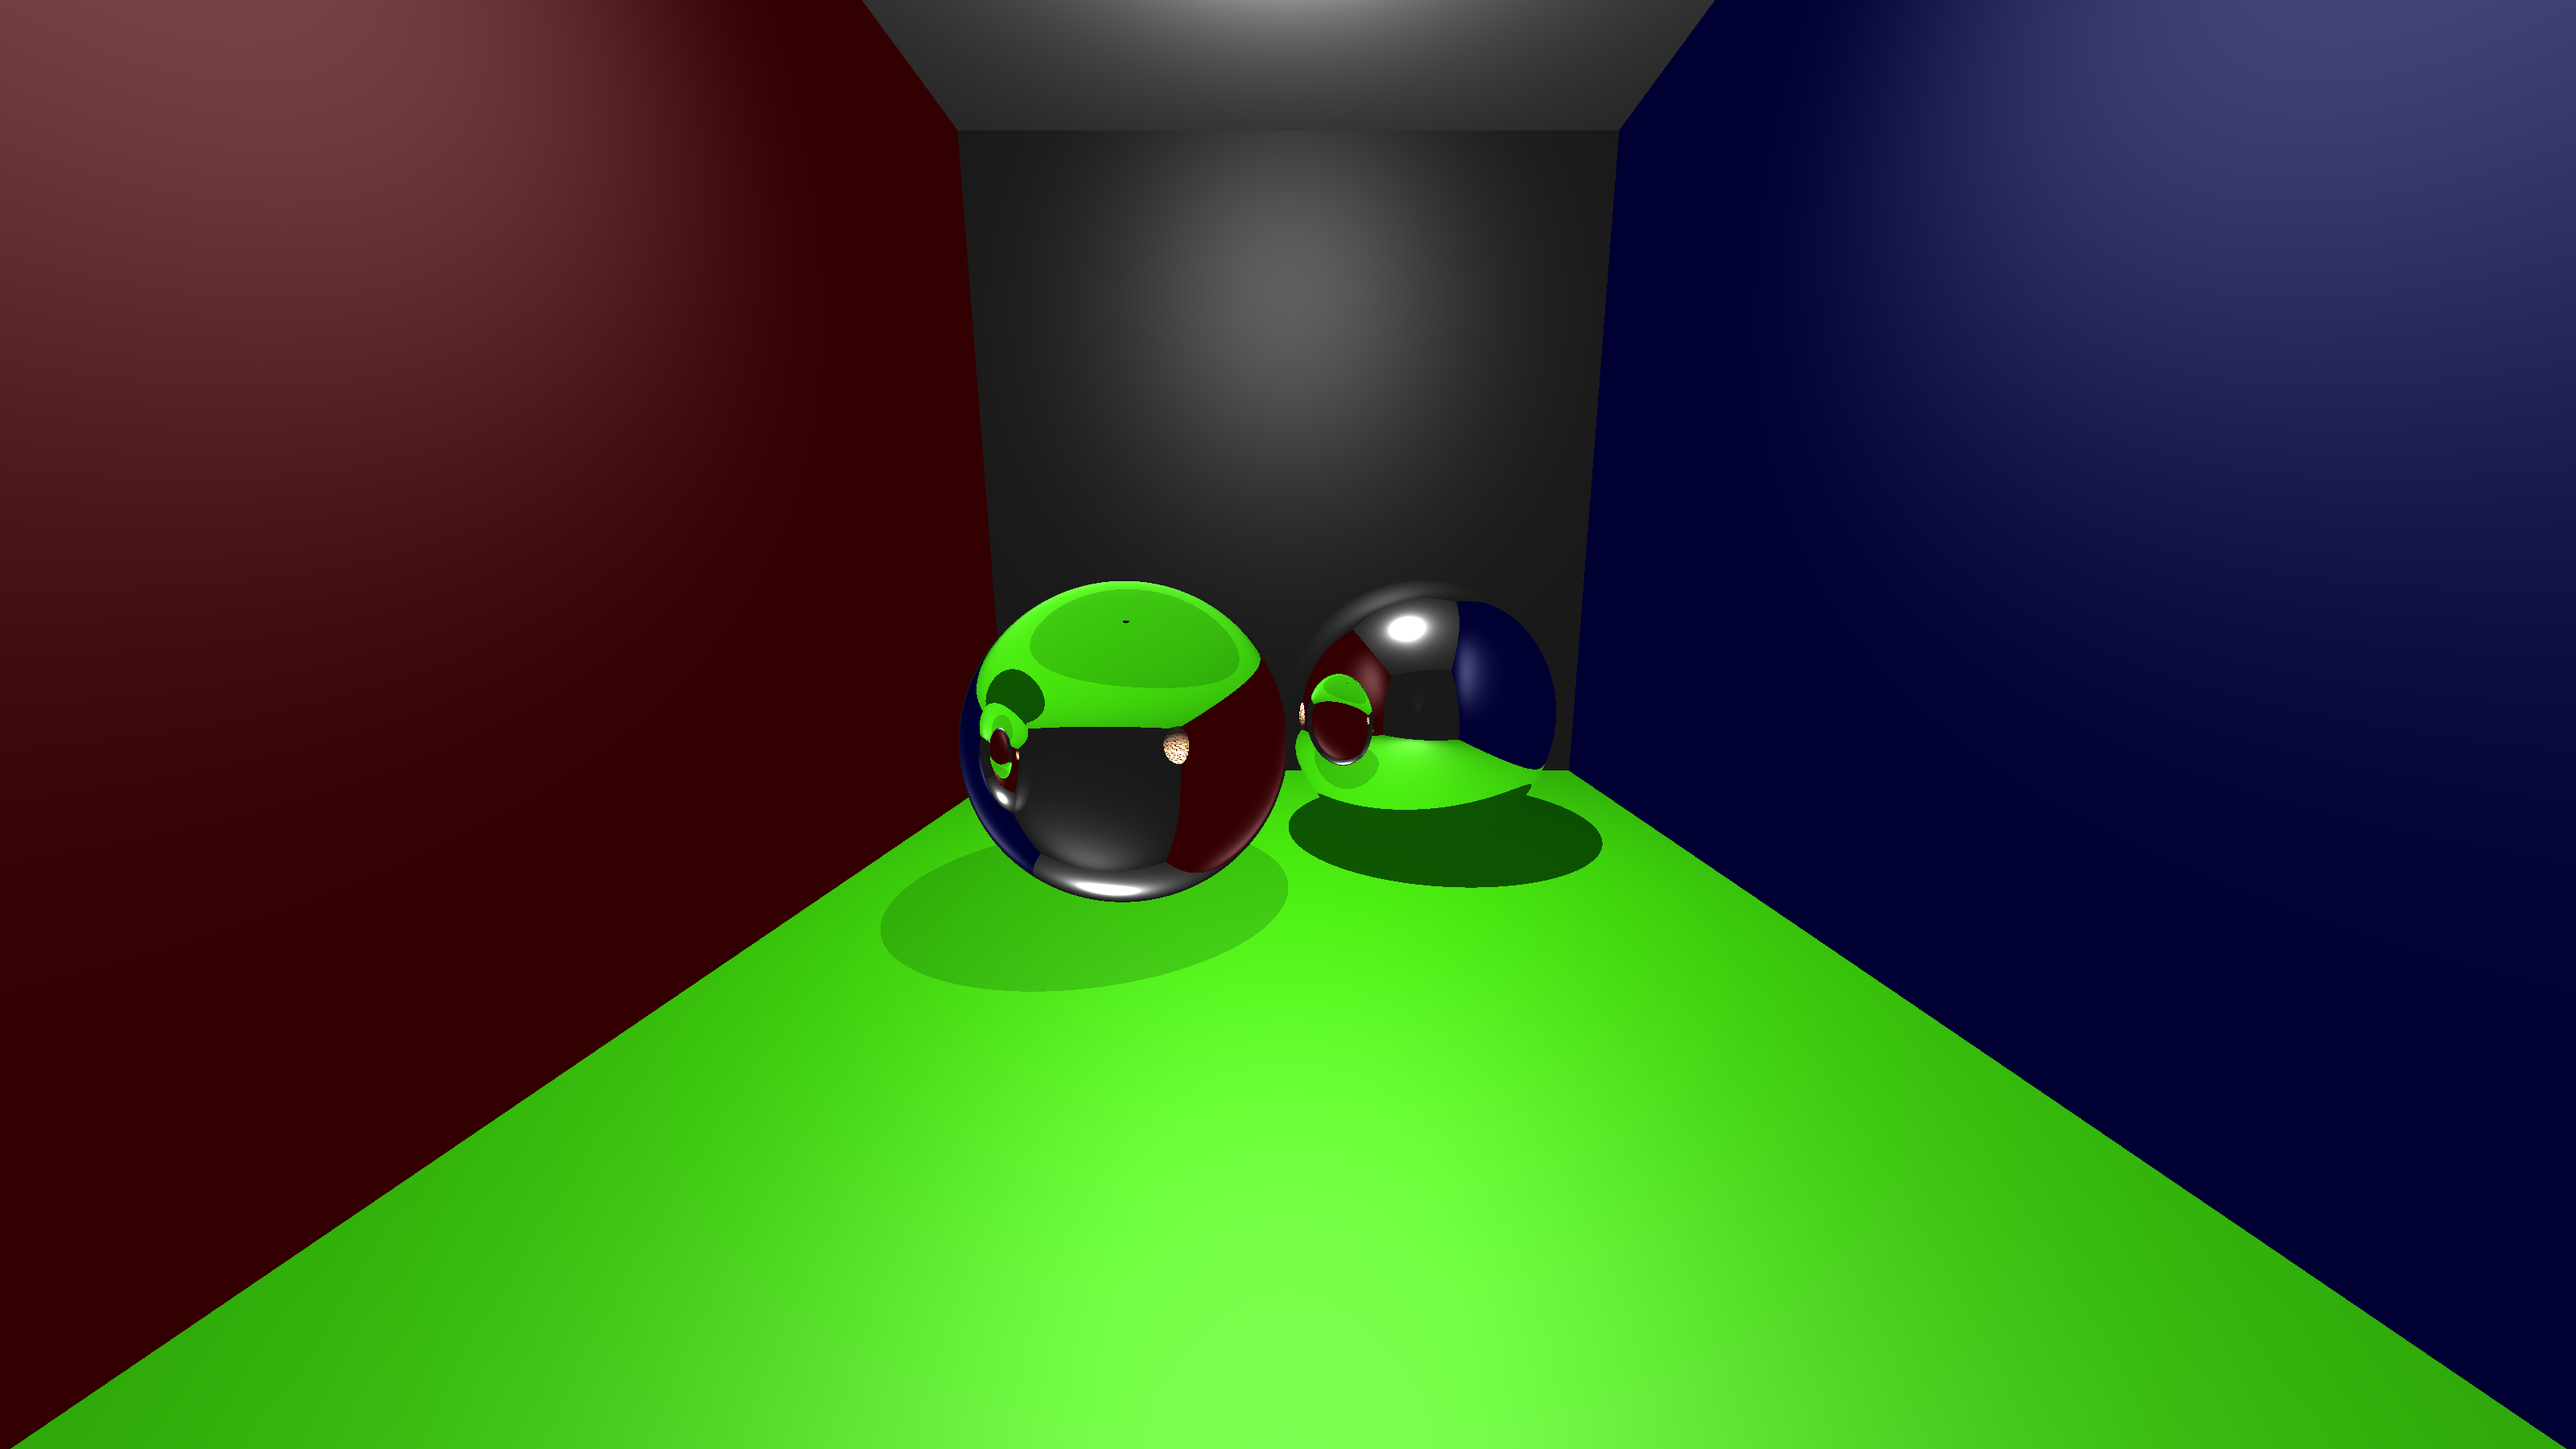
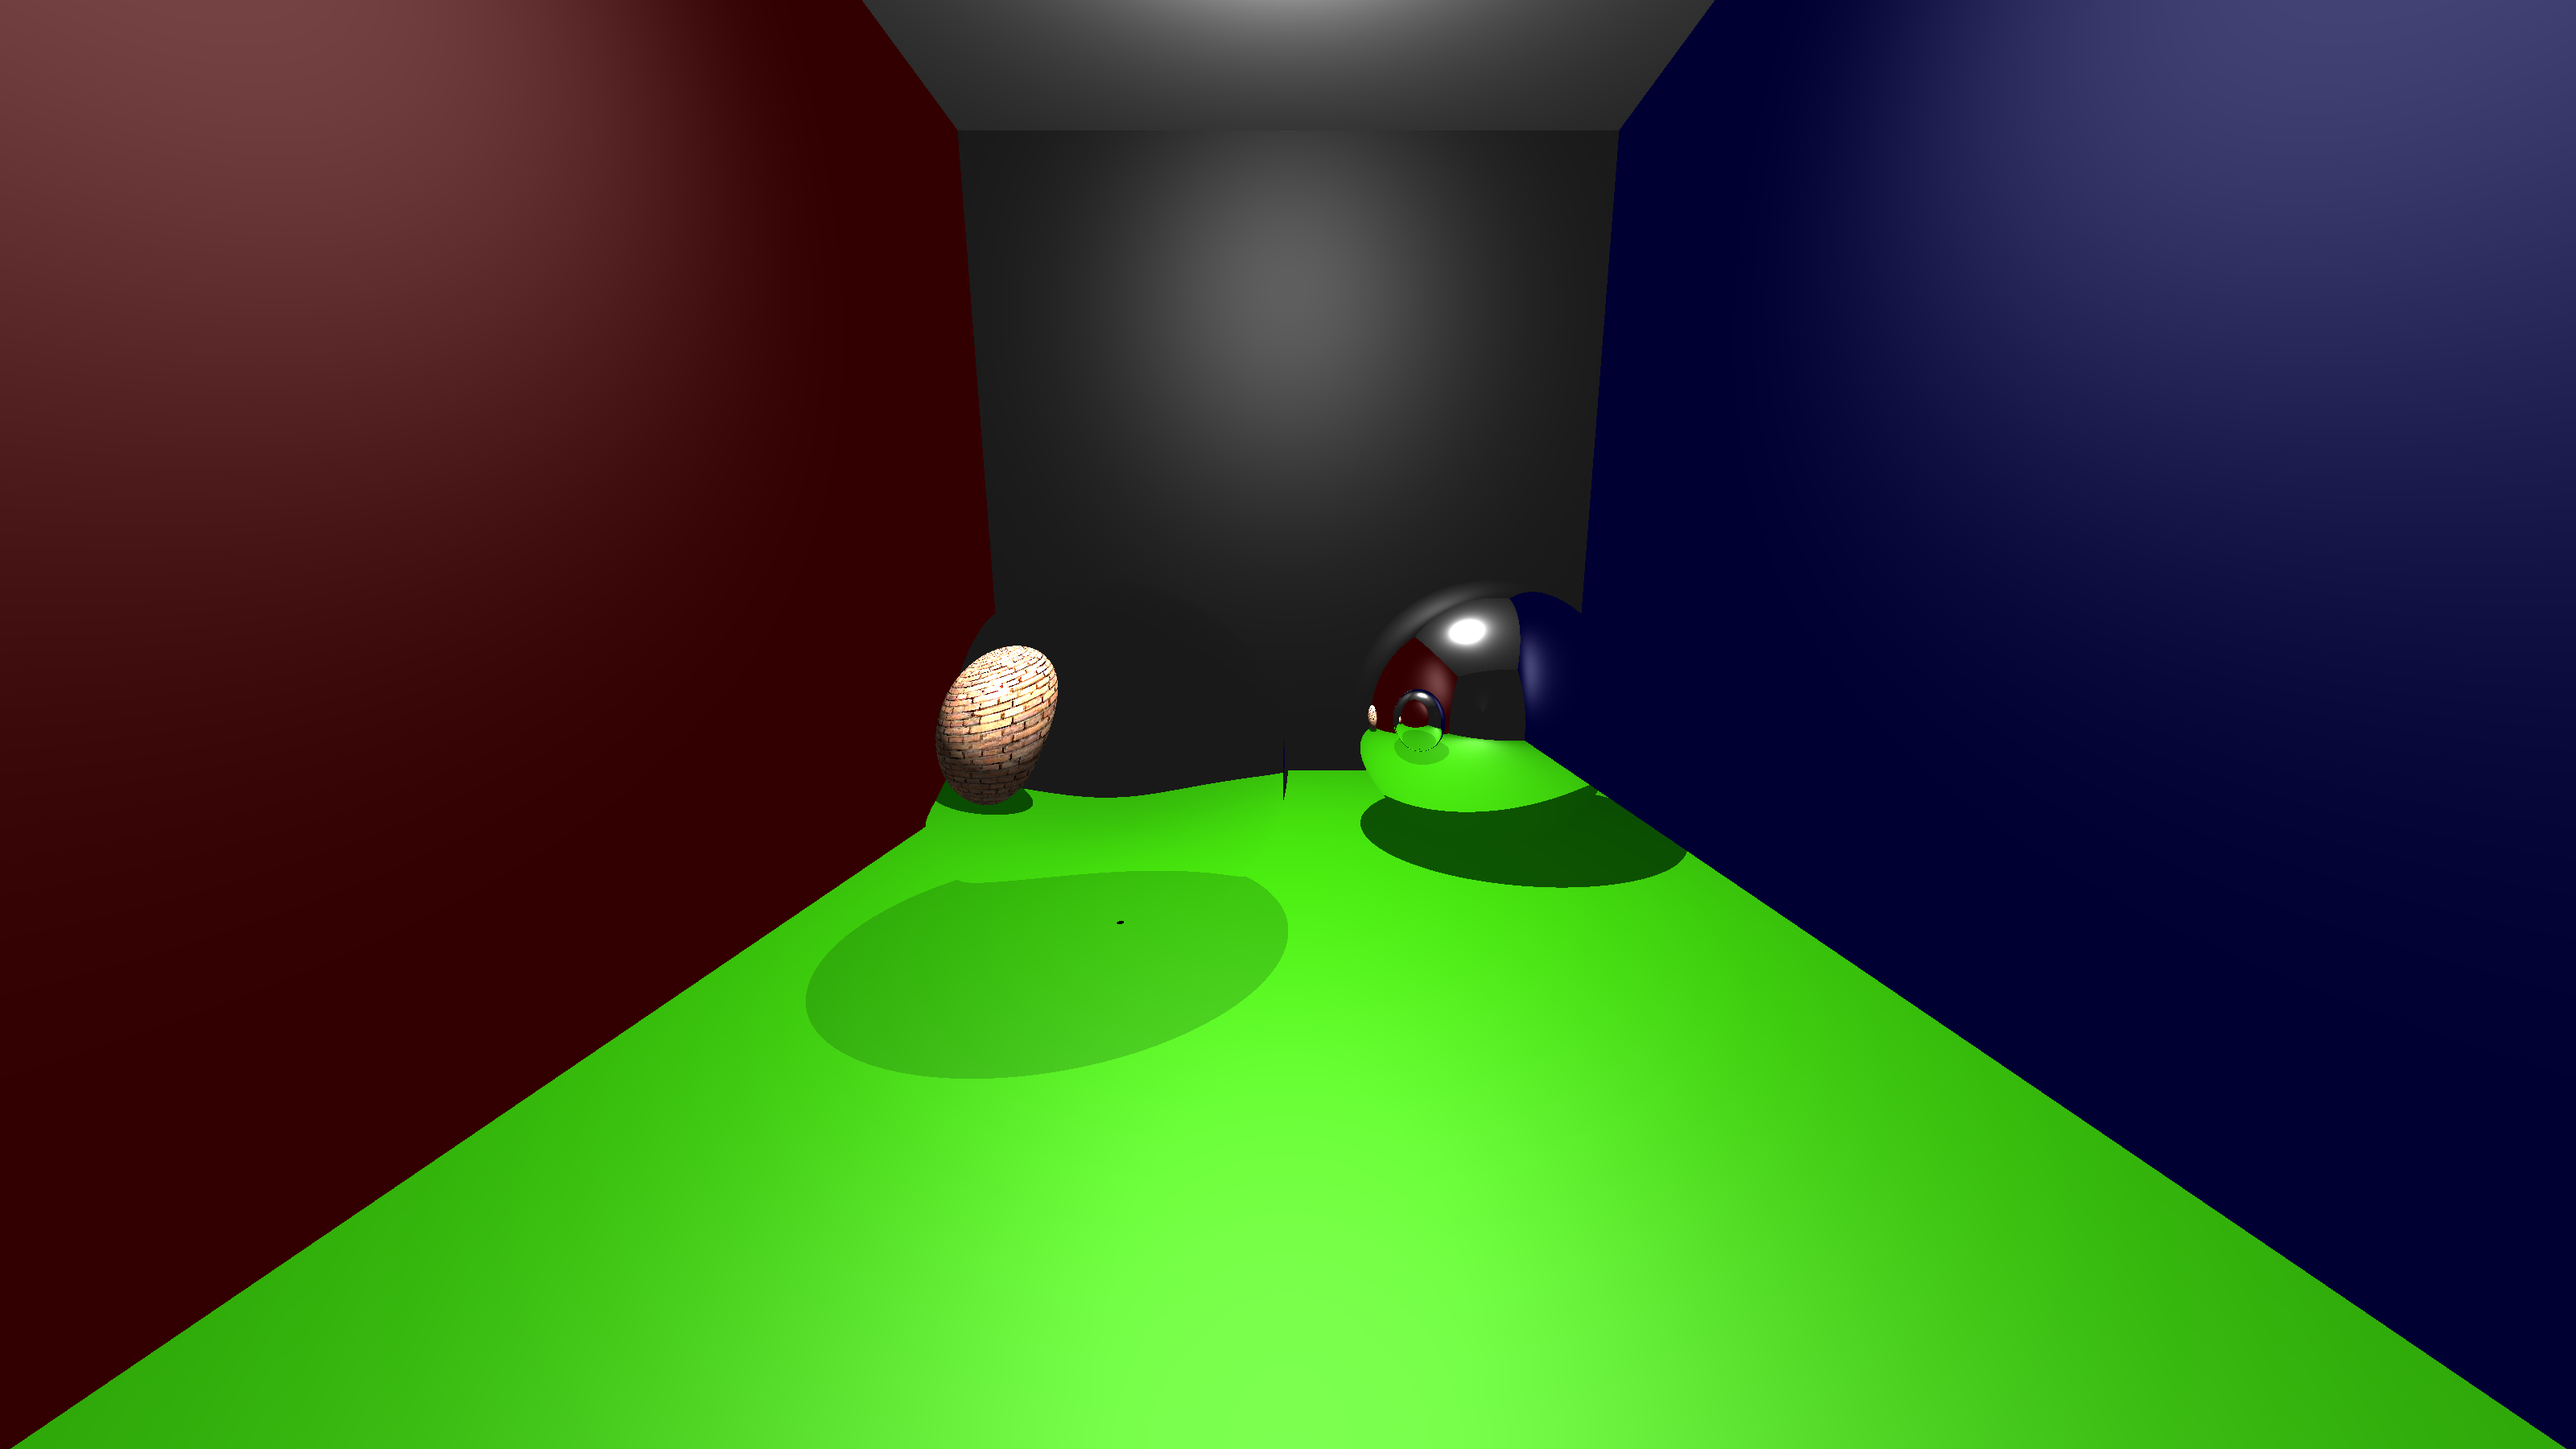
Sphere color multiplies

Changed region(s): [[0.3125, 0.4044, 0.6562, 0.7467]]

diff --git a/IK_Raytracer/IK_Raytracer/LightIntensity.cpp b/IK_Raytracer/IK_Raytracer/LightIntensity.cpp
@@ -97,6 +97,14 @@ bool LightIntensity::operator==(const LightIntensity& li)
 	else return false;
 }
 
+LightIntensity LightIntensity::multiply(LightIntensity li, vec3 color)
+{
+	li.r *= color.r();
+	li.g *= color.g();
+	li.b *= color.b();
+	return li;
+}
+
 
 
 LightIntensity LightIntensity::Antialiasing(Hitable* world, Camera* camera, float fov, float m, bool ortho, float xMin, float xMax, float yMin, float yMax, int x, int y, float w, std::vector<LightIntensity*> diffuseColors, std::vector<PointLight> pointLights, std::vector<DirectionalLight> directionalLights)
@@ -198,6 +206,16 @@ LightIntensity LightIntensity::operator*(vec3 v)
 	return Result;
 }
 
+LightIntensity LightIntensity::operator+(vec3 v)
+{
+	LightIntensity Result;
+	Result.r += v.r();
+	Result.g += v.g();
+	Result.b += v.b();
+	return Result;
+}
+
+
 //LightIntensity operator*(LightIntensity& li, float num)
 //{
 //	LightIntensity Result;
@@ -225,12 +243,12 @@ LightIntensity LightIntensity::GetColorFromRay(const Ray& r, Hitable* world, vec
 			vec3 scatterDir = (unit_vector(r.direction()) - 2 * dot(unit_vector(r.direction()), newNormal) * newNormal);
 			Ray scatterRay(rec.p, (scatterDir));
 
-			return GetColorFromRay(scatterRay, world, cameraPosition, pointLights, directionalLights, bounce++);
+			return multiply(GetColorFromRay(scatterRay, world, cameraPosition, pointLights, directionalLights, bounce++), rec.materialPtr->mDiffuse);
 		}
 
 		else if (rec.materialPtr->isRefractor && bounce < 5)
 		{
-			rec.materialPtr->refraction = 2.0f - rec.materialPtr->refraction;
+			rec.materialPtr->refraction = 1.0f - rec.materialPtr->refraction;
 			vec3 refractedDir;
 			vec3 uv = unit_vector(r.direction());
 			//float dt = dot(uv, -rec.normal);
@@ -253,7 +271,7 @@ LightIntensity LightIntensity::GetColorFromRay(const Ray& r, Hitable* world, vec
 			{
 				attenuation = rec.materialPtr->mDiffuse;
 			}
-			return GetColorFromRay(refractedRay, world, cameraPosition, pointLights, directionalLights, bounce++);// * rec.materialPtr->mDiffuse;
+			return multiply(GetColorFromRay(refractedRay, world, cameraPosition, pointLights, directionalLights, bounce++), rec.materialPtr->mDiffuse);
 		}
 
 		else
@@ -266,7 +284,7 @@ LightIntensity LightIntensity::GetColorFromRay(const Ray& r, Hitable* world, vec
 				// shadow
 				if (world->hit(shadowRay, 0.001, 100000, shadowRec) && shadowRec.materialPtr->isTransparent == false)
 				{
-					if (shadowRec.materialPtr->isRefractor == true)
+					if (shadowRec.materialPtr->isRefractor)
 					{
 						ambientColor += pointLights.at(i).ambientColor;
 						specularColor += pointLights.at(i).getSpecular(rec, -cameraPosition, rec.materialPtr->shininess) * shadowIntensity * 4;
@@ -312,10 +330,9 @@ LightIntensity LightIntensity::GetColorFromRay(const Ray& r, Hitable* world, vec
 			}
 		
 			// Final color
+			// TEXTURE
 			if (rec.materialPtr->texture != nullptr)
 			{
-				//std::cout << "TEXTURE" << std::endl;
-				//std::cout << rec.u << rec.v << std::endl;
 				float redTexAmbientValue =  rec.materialPtr->texture->value(rec.u, rec.v, rec.p).r() * 0.1 * ambientColor.r();
 				float greenTexAmbientValue =rec.materialPtr->texture->value(rec.u, rec.v, rec.p).g() * 0.1 * ambientColor.g();
 				float blueTexAmbientValue = rec.materialPtr->texture->value(rec.u, rec.v, rec.p).b() * 0.1 * ambientColor.b();
@@ -332,9 +349,9 @@ LightIntensity LightIntensity::GetColorFromRay(const Ray& r, Hitable* world, vec
 									  green(greenTexAmbientValue + greenTexDiffuseValue + greenTexSpecularValue),
 									  blue(blueTexAmbientValue + blueTexDiffuseValue + blueTexSpecularValue));
 			}
+			// NO TEXTURE
 			else
 			{
-				//std::cout << "TEXTURE" << std::endl;
 				return LightIntensity(red(rec.materialPtr->mAmbient.r()  * ambientColor.r() + rec.materialPtr->mDiffuse.r() * diffuseColor.r() + rec.materialPtr->mSpecular.r() * specularColor.r()),
 									  green(rec.materialPtr->mAmbient.g()* ambientColor.g() + rec.materialPtr->mDiffuse.g() * diffuseColor.g() + rec.materialPtr->mSpecular.g() * specularColor.g()),
 									  blue(rec.materialPtr->mAmbient.b() * ambientColor.b() + rec.materialPtr->mDiffuse.b() * diffuseColor.b() + rec.materialPtr->mSpecular.b() * specularColor.b()));

diff --git a/IK_Raytracer/IK_Raytracer/IK_Raytracer.cpp b/IK_Raytracer/IK_Raytracer/IK_Raytracer.cpp
@@ -71,41 +71,23 @@ int main()
     Material* transMat = new Material(vec3(255, 255, 255), vec3(255, 255, 255), vec3(255, 255, 255), 1, true);
     //materials.push_back(transMat);
 
-    Material* refractMat = new Material(vec3(255, 255, 255), vec3(255, 255, 255), 8, true, 2.31);
+    Material* refractMat = new Material(vec3(1.0, 1.0, 1.0), vec3(255, 255, 255), 8, true, 1.5);
     //materials.push_back(refractMat);
 
-    Material* mirrorMat = new Material(vec3(255, 0, 0), vec3(255, 255, 255), 8, 1.0, true);
+    Material* mirrorMat = new Material(vec3(1.0, 1.0, 1.0), vec3(255, 255, 255), 8, 1.0, true);
     //materials.push_back(mirrorMat);
 
     // Vector of hitable objects
     std::vector<Hitable*> hitables;
 
-    // Parser object which is used to assign vertices and indices of object to those vertices and indices given below
-    ObjParser parser;
-    std::vector<vec3> vertices, indices;
-
-    //// Assigning vertices and indices;
-    //parser.ParseFile("coneBlend2.obj", vertices, indices);
-
-    //// Mesh made from parsed obj file
-
-    //// Second object creation:
-    //parser.ParseFile("cone.obj", vertices, indices);
-    //
-    //Mesh* cone = new Mesh(vertices, indices, 3, vec3(-3, 1, 0), new Material(vec3(60, 6, 6), vec3(200, 20, 20), vec3(255, 255, 255)));
-    //cone->addToWorld(&hitables);
-    //vertices.clear();
-    //indices.clear();
-
     // ---------------- SPHERES -----------------
-
-    Hitable* sphereMirror = new Sphere(vec3(2, 0, 1), 2, mirrorMat);
+    Hitable* sphereMirror = new Sphere(vec3(3, 0, 1), 2, mirrorMat);
     hitables.push_back(sphereMirror);
     
-    Hitable* sphereRefract = new Sphere(vec3(-2, 0, -1), -2, refractMat);
+    Hitable* sphereRefract = new Sphere(vec3(-2, 0, -2), 2, refractMat);
     hitables.push_back(sphereRefract);
 
-    Hitable* sphereTextured = new Sphere(vec3(-6, -1, 5), 1, earthMat);
+    Hitable* sphereTextured = new Sphere(vec3(-5, -1, 4), 1, earthMat);
     hitables.push_back(sphereTextured);
 
     // ---------------- CORNEL -----------------
@@ -133,6 +115,22 @@ int main()
 
     pointLights.push_back(PointLight(vec3(1.0, 1.0, 1.0), vec3(1.0, 1.0, 1.0), vec3(0, 9.5, -1), 0.5f, 20.0f, 8.0f, 700.0f));
 
+    // Parser object which is used to assign vertices and indices of object to those vertices and indices given below
+    ObjParser parser;
+    std::vector<vec3> vertices, indices;
+
+    //// Assigning vertices and indices;
+    //parser.ParseFile("coneBlend2.obj", vertices, indices);
+
+    //// Mesh made from parsed obj file
+
+    //// Second object creation:
+    //parser.ParseFile("cone.obj", vertices, indices);
+    //
+    //Mesh* cone = new Mesh(vertices, indices, 3, vec3(-3, 1, 0), new Material(vec3(60, 6, 6), vec3(200, 20, 20), vec3(255, 255, 255)));
+    //cone->addToWorld(&hitables);
+    //vertices.clear();
+    //indices.clear();
     std::cout << hitables.size() << std::endl;
 
     vec3 surLiPos = vec3(0, 1, 5);

diff --git a/IK_Raytracer/IK_Raytracer/LightIntensity.h b/IK_Raytracer/IK_Raytracer/LightIntensity.h
@@ -38,6 +38,7 @@ public:
 	LightIntensity operator-(LightIntensity& li);
 	LightIntensity operator*(float num);
 	LightIntensity operator*(vec3 v);
+	LightIntensity operator+(vec3 v);
 	LightIntensity operator/(float num);
 
 	void operator+=(LightIntensity li);
@@ -47,6 +48,7 @@ public:
 
 	bool operator==(const LightIntensity& li);
 
+	LightIntensity multiply(LightIntensity li, vec3 color);
 
 	friend LightIntensity operator*(float num, LightIntensity& li);
 
